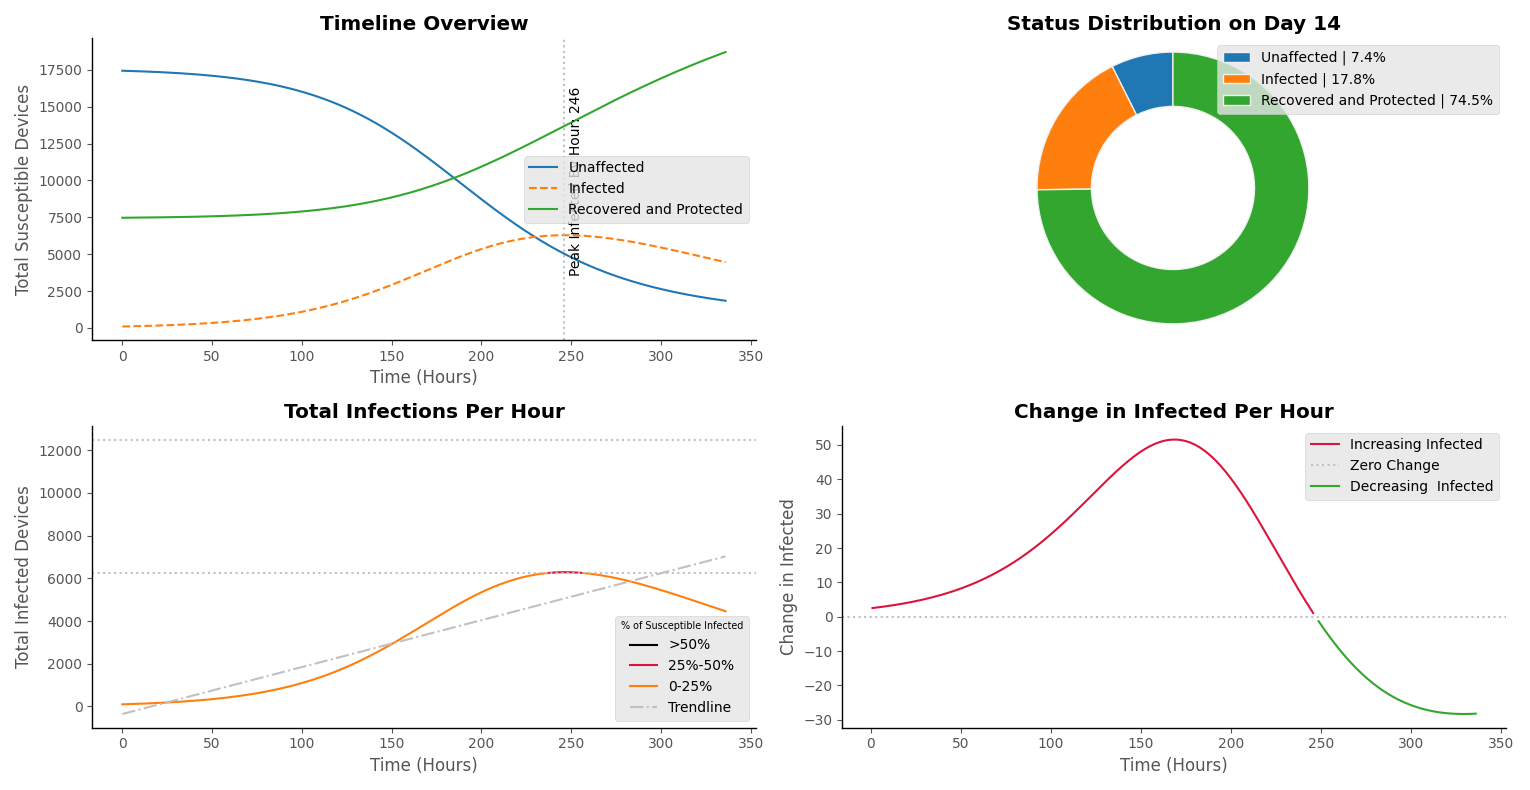
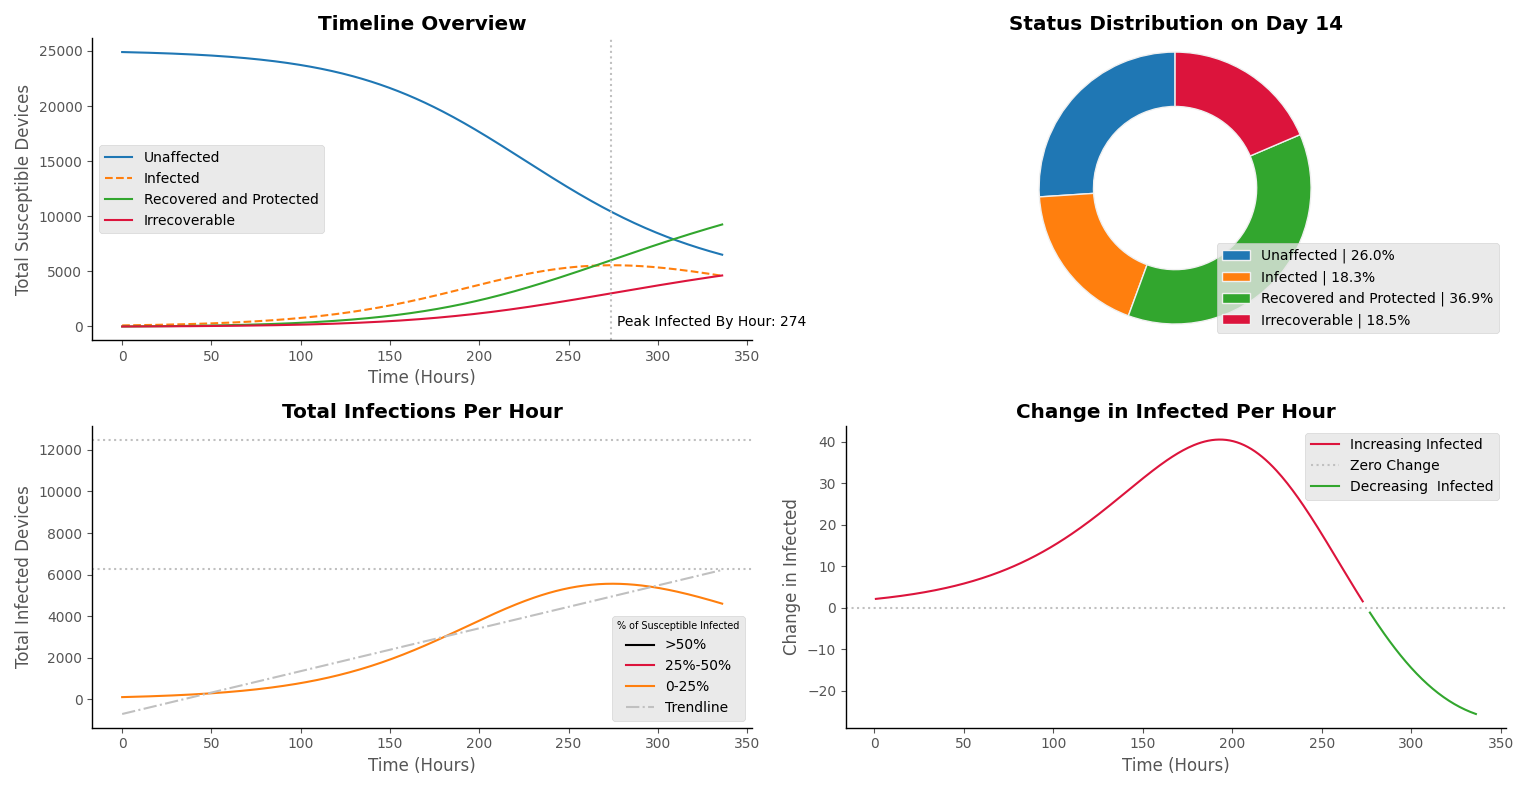
Disclaimer & Splash screen Edit, Added Water Mark, Window Opacity,

diff --git a/Virus Spread Simulation/main.py b/Virus Spread Simulation/main.py
@@ -52,8 +52,8 @@ class Disclaimer(QMainWindow):
         print("[Disclaimer]")
 
         # MSG BOX Set - ---------------------------------------------------#
-        disclaimer_answer = self.disclaimer.question(self, "| Computer Virus Spread Visualization 2022 Disclaimer",
-                                                     "𝗗𝗶𝘀𝗰𝗹𝗮𝗶𝗺𝗲𝗿:\nThe developer of Computer Virus Spread Visualization 2022 cannot be held responsible for your use of the information provided. "
+        disclaimer_answer = self.disclaimer.question(self, "| Computer Virus Spread Visualization Tool Disclaimer",
+                                                     "𝗗𝗶𝘀𝗰𝗹𝗮𝗶𝗺𝗲𝗿:\nThe developer of Computer Virus Spread Visualization Tool cannot be held responsible for your use of the information provided. "
                                                      "This tool should only be used as an estimate and should not be considered 100% accurate. "
                                                      "\n\n𝗗𝗼 𝘆𝗼𝘂 𝘂𝗻𝗱𝗲𝗿𝘀𝘁𝗮𝗻𝗱? \n",
                                                      self.disclaimer.Yes | self.disclaimer.Abort)
@@ -71,7 +71,6 @@ class Disclaimer(QMainWindow):
 class Window(QMainWindow):
     def __init__(self):
         super(Window, self).__init__()
-
         # Widgets ----------------------------------------------------------------#
         # Sim Button
         self.btn_simulate = QtWidgets.QPushButton("📈 | Simulate",self)
@@ -88,15 +87,19 @@ class Window(QMainWindow):
         # Save Button
         self.btn_Save = QtWidgets.QPushButton("💾 | Export", self)
 
+        #WaterMark
+        self.WaterMark_img = QPixmap('LogoWaterMark.png')
+        self.WaterMark = QtWidgets.QLabel(self)
+
         # Save msg Box
         self.Save_msg = QMessageBox()
         self.Save_msg.setWindowIcon(QtGui.QIcon('Icon.ico'))
-        self.Save_msg.setWindowTitle("| Computer Virus Spread Visualization 2022")
+        self.Save_msg.setWindowTitle("| Computer Virus Spread Visualization Tool")
 
         # Gen use Msg box
         self.msg_box = QMessageBox()
         self.msg_box.setWindowIcon(QtGui.QIcon('Icon.ico'))
-        self.msg_box.setWindowTitle("| Computer Virus Spread Visualization 2022")
+        self.msg_box.setWindowTitle("| Computer Virus Spread Visualization Tool")
 
         # Progress bar
         self.progress = QtWidgets.QProgressBar(self)
@@ -208,16 +211,17 @@ class Window(QMainWindow):
 
         # Window frame settings
         self.setFixedSize(1700, 900)
-        self.setWindowTitle("| Computer Virus Spread Visualization 2022")
+        self.setWindowTitle("| Computer Virus Spread Visualization Tool")
         self.initUI()
         self.simulate()
 
     def initUI(self):
-
         qtRectangle = self.frameGeometry()
         centerPoint = QDesktopWidget().availableGeometry().center()
         qtRectangle.moveCenter(centerPoint)
         self.move(qtRectangle.topLeft())
+
+        self.setWindowOpacity(0.96)
 
         #window Icon
         self.setWindowIcon(QtGui.QIcon('Icon.ico'))
@@ -226,8 +230,11 @@ class Window(QMainWindow):
         self.header.setPixmap(self.Head_img)
         self.header.resize(1920, 50)
 
-        self.lbl_Disclaimer.setGeometry(1030, 875, 1000, 20)
+        self.WaterMark.setPixmap(self.WaterMark_img)
+        self.WaterMark.resize(555, 482)
+        self.WaterMark.move(580, 240)
 
+        self.lbl_Disclaimer.setGeometry(1030, 875, 1000, 20)
         self.sbx_hibernation.setDisabled(True)
         self.sbx_mortality.setDisabled(True)
 
@@ -508,7 +515,6 @@ class Window(QMainWindow):
         else:
             self.figure.setEnabled(True)
 
-
     #--------------------------------------------------------------simulate MODELS------------------------------------------------------------------------#
     def simulate(self):
         try:
@@ -553,7 +559,7 @@ class SubWindow(QMainWindow):
     def __init__(self):
         super(SubWindow, self).__init__()
         # Window--------------------------------------------------------#
-        self.setWindowTitle("| Computer Virus Spread Visualization 2022 - 📌 Pinned Figure")
+        self.setWindowTitle("| Computer Virus Spread Visualization Tool - 📌 Pinned Figure")
         self.setWindowIcon(QtGui.QIcon('Icon.ico'))
         self.lbl_Disclaimer = QtWidgets.QLabel(self)
         self.lbl_Disclaimer.setText("*This tool should only be used as an estimate and should not be considered "
@@ -588,8 +594,8 @@ def window():
     win = Window()
     splash = Splash()
     splash.show()
+    time.sleep(1)
     Disclaimer()
-    time.sleep(1.5)
     splash.hide()
     print("[Execute Main Window]")
     win.show()

diff --git a/Virus Spread Simulation/models.py b/Virus Spread Simulation/models.py
@@ -76,7 +76,7 @@ def SIR(sbx_healthy, sbx_infected, sbx_days, sbx_propagation, sbx_r_chance,chbx_
             axs[0, 0].plot(t, I, linestyle='--', label='Infected', color='#FF7F0E')
             axs[0, 0].plot(t, R, label='Recovered & Protected', color='#32A62E')
             axs[0, 0].axvline(I.argmax(axis=0), linestyle=':', color='silver')
-            axs[0, 0].text(I.argmax(axis=0) + 3, np.amax(N0*0.15), 'Peak Infected By Hour: {}'.format(int((I.argmax(axis=0)))), color='black',rotation=90)
+            axs[0, 0].text(I.argmax(axis=0) + 3, np.amax(0),'Peak Infected By Hour: {}'.format(int((I.argmax(axis=0)))), color='black')
 
             legend = axs[0, 0].legend()
             legend.get_frame().set_alpha(0.5)
@@ -257,8 +257,7 @@ def SIRD(sbx_healthy, sbx_infected, sbx_days, sbx_propagation, sbx_r_chance,sbx_
             legend.get_frame().set_alpha(0.5)
 
             axs[0, 0].axvline(I.argmax(axis=0), linestyle=':', color='silver')
-            axs[0, 0].text(I.argmax(axis=0) + 3, np.amax(N0 * 0.15),
-                           'Peak Infected By Hour: {}'.format(int((I.argmax(axis=0)))), color='black', rotation=90)
+            axs[0, 0].text(I.argmax(axis=0) + 3, np.amax(0),'Peak Infected By Hour: {}'.format(int((I.argmax(axis=0)))), color='black')
 
             axs[0, 0].spines['bottom'].set_color('black')
             axs[0, 0].spines['left'].set_color('black')
@@ -435,7 +434,7 @@ def SIS(sbx_healthy, sbx_infected, sbx_days, sbx_propagation, sbx_r_chance,chbx_
             axs[0, 0].spines['bottom'].set_color('black')
             axs[0, 0].spines['left'].set_color('black')
             axs[0, 0].axvline(I.argmax(axis=0), linestyle=':', color='silver')
-            axs[0, 0].text(I.argmax(axis=0) + 3, np.amax(N0 * 0.15),'Peak Infected By Hour: {}'.format(int((I.argmax(axis=0)))), color='black', rotation=90)
+            axs[0, 0].text(I.argmax(axis=0) + 3, np.amax(0),'Peak Infected By Hour: {}'.format(int((I.argmax(axis=0)))), color='black')
 
             for spine in ('top', 'right'):
                 axs[0, 0].spines[spine].set_visible(False)
